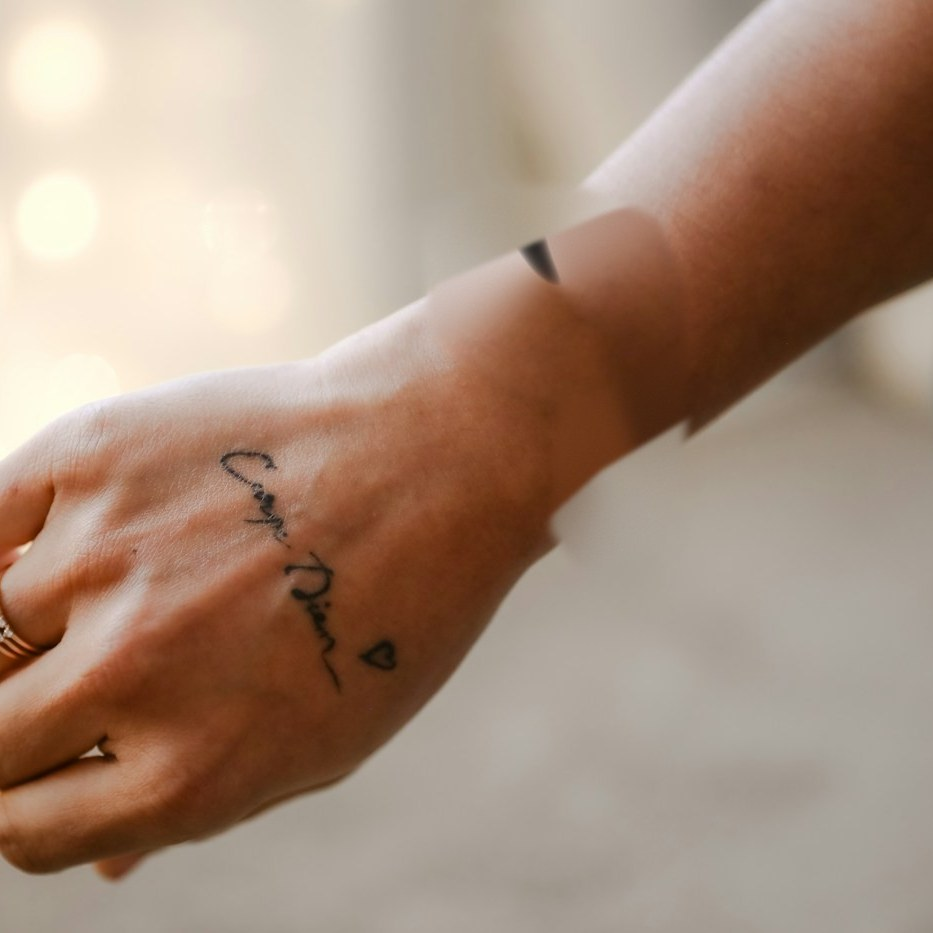
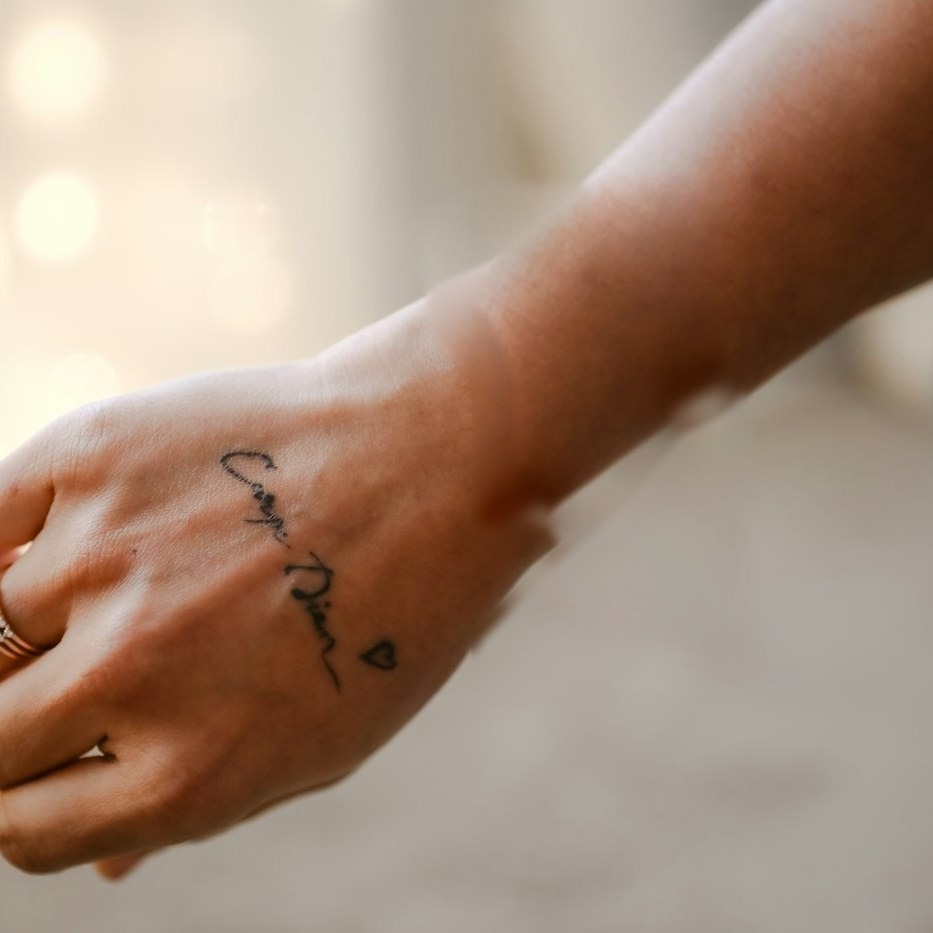
Tur 5d: saat kayışı bilek içinde, bilek/ayak stok temizliği, parfüm alfa kenarı; AFTER2 ekranları

Changed region(s): [[0.5284, 0.4041, 0.8081, 0.5595], [0.5284, 0.1865, 0.746, 0.373], [0.4973, 0.6217, 0.5595, 0.7149]]

diff --git a/app/studio/lib/wear/photoreal.ts b/app/studio/lib/wear/photoreal.ts
@@ -331,7 +331,7 @@ function grain(ctx: CanvasRenderingContext2D, w: number, h: number, amt: number)
 const WRIST = {
   W: 933,
   // real arm silhouette (from the photo)
-  arm: [[0, 470], [80, 420], [200, 385], [330, 345], [440, 290], [560, 195], [700, 110], [830, 0], [933, 0], [933, 290], [820, 345], [680, 440], [655, 500], [630, 548], [560, 565], [470, 650], [0, 933]] as Pt[],
+  arm: [[0, 470], [80, 420], [200, 385], [330, 345], [440, 290], [560, 195], [700, 110], [830, 0], [933, 0], [933, 290], [820, 340], [700, 418], [625, 472], [555, 515], [470, 610], [0, 933]] as Pt[],
   // the removed original watch: case centre / size / strap direction —
   // our watch is laid exactly over that footprint (hides any inpaint residue)
   strapRot: (-21 * Math.PI) / 180, // vertical strap → original bracelet direction

diff --git a/app/studio/lib/lifestyleFallback.ts b/app/studio/lib/lifestyleFallback.ts
@@ -171,7 +171,7 @@ export async function renderLifestyleScene(
 function hardenAlpha(c: HTMLCanvasElement): HTMLCanvasElement {
   const ctx = c.getContext("2d")!;
   const d = ctx.getImageData(0, 0, c.width, c.height);
-  for (let i = 3; i < d.data.length; i += 4) d.data[i] = d.data[i]! > 140 ? 255 : 0;
+  for (let i = 3; i < d.data.length; i += 4) d.data[i] = d.data[i]! > 185 ? 255 : 0;
   ctx.putImageData(d, 0, 0);
   const o = canvas(c.width, c.height);
   const oc = o.getContext("2d")!;

diff --git a/DENETIM.md b/DENETIM.md
@@ -54,3 +54,10 @@ Anahtarsız davranış (doğrulandı): `GET /api/gen` → `configured:false, blo
 - **Elbise**: ücretsiz yolla dürüst giyili/askıda foto yapılamadı (kaynak gelinlik modelde, ürün tam ayrılamıyor; uygun lisanslı hayalet-manken stoğu eklenmedi) → `null`, stüdyo karesi. Sahte try-on üretilmedi; gerçek giyim için VTON (FAL_KEY) gerekli.
 - Ekranlar: `screens/AFTER-photoreal-{sneaker,watch,perfume}.jpg`.
 - Kalan engeller: sabit stok pozları, saat stok temizliğinde iz, elbise için VTON/FAL_KEY veya Photoroom.
+
+### Tur 5d — temizlik (AFTER2 ekranları)
+- **Saat**: bilek alt kenarı poligonu fotoğraftaki kenara sıkılaştırıldı → kayış ucu/toka artık bilek dışına taşmıyor, kenarda kesilip arkaya dönüyor. `wrist_scene.jpg` yeniden temizlendi (önkoldan Poisson klon + kenar çentikleri inpaint) → kasa altındaki açık iz giderildi. Giyili ✔.
+- **Ayakkabı**: `foot_scene.jpg` çorap altındaki beyaz kalıntı/bulanık bant, çorap alfası korunarak koyu fon gradyanıyla dolduruldu → topuk/çorap birleşiminde leke yok. Giyili ✔.
+- **Parfüm**: cam alfa eşiği 140→185 (kenar saçağı azaldı). Şişe alt köşesinde çok küçük amber nokta kalabiliyor. Elde ✔.
+- **Elbise**: değişmedi — ücretsiz dürüst yol yok, VTON/FAL_KEY gerekir.
+- Ekranlar: `screens/AFTER2-photoreal-{watch,sneaker,perfume}.jpg`.
